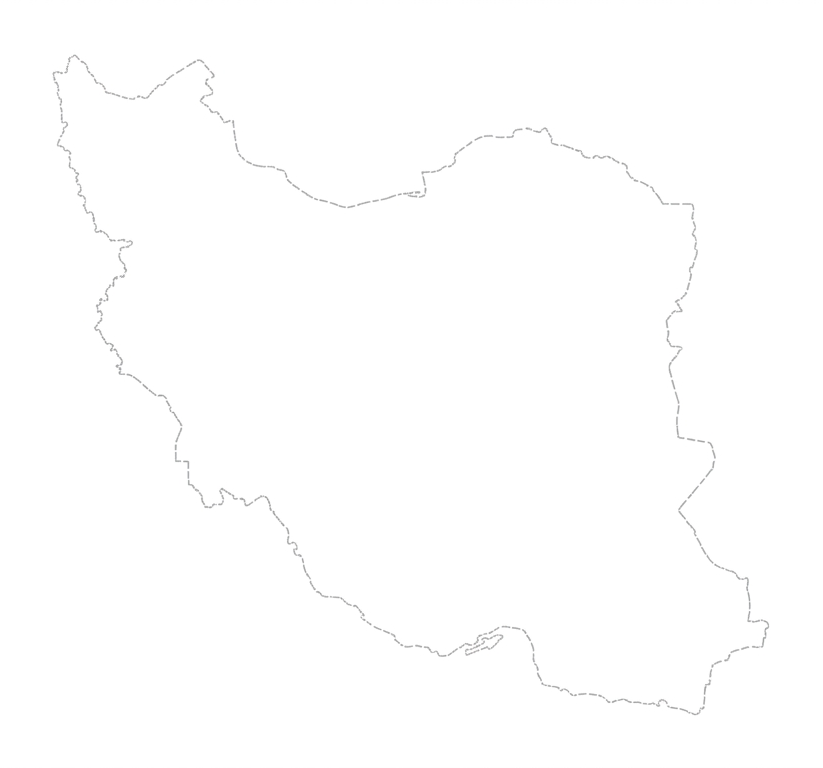
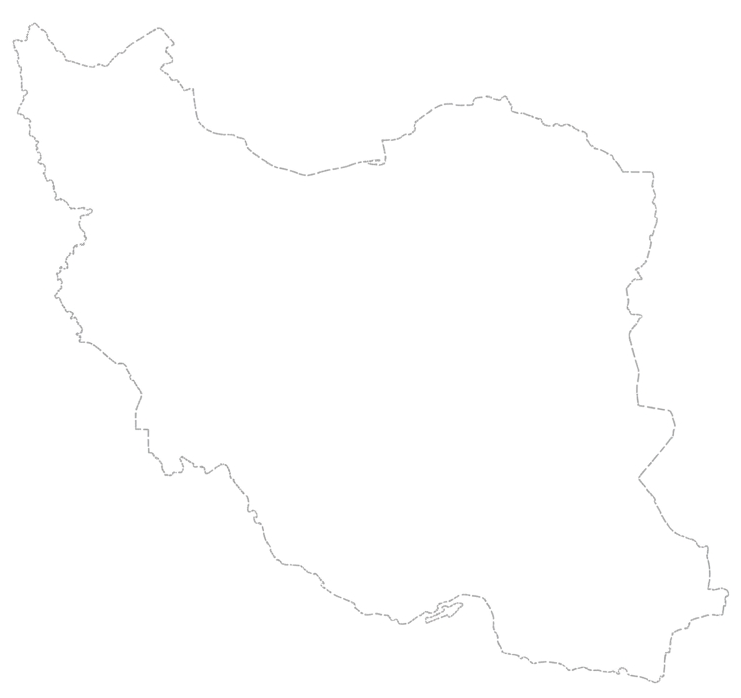
feat(Landing): responsive[deploy]

diff --git a/src/app/usersPanel/components/UserHeader.tsx b/src/app/usersPanel/components/UserHeader.tsx
@@ -1,0 +1,33 @@
+import { useNavigate } from "@tanstack/react-router";
+import { Search } from "lucide-react";
+
+const UserHeader = () => {
+  const navigate = useNavigate();
+
+  return (
+    <div className="w-full">
+      <header className=" mx-5 my-2 flex h-14 items-center px-4 border-b">
+        <div className="flex items-center gap-5 text-primary ">
+          <span
+            onClick={() => navigate({ to: "/" })}
+            className="cursor-pointer"
+          >
+            <div className="w-15 h-15 flex justify-center items-center">
+              <img src="./logo.webp" alt="logo" className="w-fit h-fit" />
+            </div>
+          </span>
+          <div className="w-full h-10 relative rounded-2xl border border-gray-200">
+            <input
+              type="text"
+              placeholder="جستجو شهر..."
+              className="w-full h-full px-4 pr-10 rounded-2xl outline-none"
+            />
+            <Search className="absolute left-3 top-1/2 -translate-y-1/2 text-gray-400" />
+          </div>
+        </div>
+      </header>
+    </div>
+  );
+};
+
+export default UserHeader;

diff --git a/src/routes/search.tsx b/src/routes/search.tsx
@@ -1,6 +1,6 @@
-import AccommodationCardsDetails from "@/app/usersPanel/components/AccommodationCardsDetails";
-import useAccommoation from "@/app/usersPanel/services/useAccommoation";
-import { createFileRoute, useSearch } from "@tanstack/react-router";
+import UserHeader from "@/app/usersPanel/components/UserHeader";
+import { createFileRoute, Outlet, useSearch } from "@tanstack/react-router";
+import { Toaster } from "sonner";
 import z from "zod";
 
 export const Route = createFileRoute("/search")({
@@ -22,18 +22,21 @@ export const Route = createFileRoute("/search")({
 function RouteComponent() {
   const search = useSearch({ from: "/search" });
   const provinceId = search.city__province__id as string | undefined;
-  console.log(provinceId)
-  
-  const { getAccommodations } = useAccommoation({
-    city__province__id: Number(provinceId),
-  });
-  console.log(getAccommodations.data)
-  // console.log(getAccommodations.data)
+  console.log(provinceId);
+
+  // const { getAccommodations } = useAccommoation({
+  //   city__province__id: Number(provinceId),
+  // });
   return (
-    <div className="flex justify-center">
-      <AccommodationCardsDetails
-        accommodations={getAccommodations?.data?.results}
-      />
+    <div className="font-display!">
+      <Toaster richColors position="top-right" />
+      <UserHeader/>
+      <Outlet />
     </div>
+    // <div className="flex justify-center">
+    //   <AccommodationCardsDetails
+    //     accommodations={getAccommodations?.data?.results}
+    //   />
+    // </div>
   );
 }

diff --git a/src/app/usersPanel/Landing/popularCities/components/IranPattern.tsx b/src/app/usersPanel/Landing/popularCities/components/IranPattern.tsx
@@ -5,22 +5,27 @@ import { ChevronLeft } from "lucide-react";
 
 const IranPattern = () => {
   return (
-    <div className="flex flex-row justify-center items-center mx-20">
-      <div className="flex flex-col gap-10">
-        <h1 className="font-bold text-6xl bg-linear-to-r from-primary to-gray-300 bg-clip-text text-transparent">
+    <div className="grid grid-cols-1 xl:grid-cols-3 2xl:grid-cols-2 justify-items-center items-center mx-4 md:mx-10 lg:mx-20 md:gap-0 ">
+      <div className="col-span-1 flex flex-col gap-6 md:gap-10">
+        <h1 className="font-bold text-3xl md:text-5xl lg:text-6xl bg-linear-to-r from-primary to-gray-300 bg-clip-text text-transparent">
           مقاصد پرطرفدار
         </h1>
-        <p className="text-2xl leading-10 text-gray-500 max-w-3xl">
+        <p className="text-base md:text-xl lg:text-2xl leading-7 md:leading-9 lg:leading-10 text-gray-500 max-w-3xl">
           منتخبی از بهترین اقامتگاهها در پربازدیدترین شهرهای سیاحتی و زیارتی
           ایران؛ سفرتان را از همینجا شروع کنید.
         </p>
-        <CustomButton className="bg-accent w-fit text-white py-6 px-6 text-lg rounded-2xl" icon={<ChevronLeft className="w-8! h-8!"/>} >شروع کنید</CustomButton>
+        <CustomButton 
+          className="bg-accent w-fit text-white py-4 md:py-6 px-4 md:px-6 text-base md:text-lg rounded-xl md:rounded-2xl" 
+          icon={<ChevronLeft className="w-6 h-6 md:w-8 md:h-8"/>}
+        >
+          شروع کنید
+        </CustomButton>
       </div>
 
       <div
-        className=" md:w-215 h-192.5 relative"
+        className="w-90 h-96 sm:h-130 sm:w-130 md:w-full md:h-165 2xl:w-200 2xl:h-192.5 xl:w-180 xl:h-180 lg:h-175 lg:w-180 relative col-span-2 2xl:col-span-1 bg-center bg-contain md:bg-auto"
         style={{
-          backgroundImage: "url('/iran.png')", // تغییر از './iran.png' به '/iran.png'
+          backgroundImage: "url('/iran.png')",
           backgroundRepeat: "no-repeat",
         }}
       >

diff --git a/src/app/usersPanel/Landing/popularCities/fixtures/index.tsx b/src/app/usersPanel/Landing/popularCities/fixtures/index.tsx
@@ -1,39 +1,44 @@
-
 export const popularCities = [
   {
     name: "تهران",
     img: "./tehran.jpg",
     accommodationNum: 20,
-    position: "top-40 left-80",
+    position:
+      "xl:top-40 xl:left-80 lg:top-30 lg:left-65 md:top-25 md:left-80 sm:top-25 sm:left-50 top-25 left-35",
   },
   {
     name: "اصفهان",
     img: "./isfahan.jpg",
     accommodationNum: 20,
-    position: "top-80 left-70",
+    position:
+      "xl:top-80 xl:left-70 lg:top-65 lg:left-55 md:top-60 md:left-60 sm:top-50 sm:left-40 top-40 left-30",
   },
   {
     name: "کیش",
     img: "./kish.jpg",
     accommodationNum: 20,
-    position: "top-150 left-105",
+    position:
+      "xl:top-150 xl:left-105 lg:top-140 lg:left-85 md:top-140 md:left-85 sm:top-110 sm:left-65 top-75 left-40",
   },
   {
     name: "تبریز",
     img: "./tabriz.jpg",
     accommodationNum: 20,
-    position: "top-15 left-35",
+    position:
+      "xl:top-15 xl:left-35 lg:top-10 lg:left-20 md:top-10 md:left-30 sm:top-10 sm:left-10 top-10 left-10",
   },
   {
     name: "شیراز",
     img: "./shiraz.jpg",
     accommodationNum: 20,
-    position: "top-100 left-90",
+    position:
+      "xl:top-100 xl:left-90 lg:top-100 lg:left-65 md:top-90 md:left-70 sm:top-75 sm:left-50 top-55 left-30",
   },
   {
     name: "مشهد",
     img: "./mashhad.jpg",
     accommodationNum: 20,
-    position: "top-50 left-150",
+    position:
+      "xl:top-50 xl:left-150 lg:top-45 lg:left-130 md:top-45 md:left-140 sm:top-40 sm:left-95 top-25 left-65",
   },
 ];

diff --git a/src/app/usersPanel/Landing/services/components/Services.tsx b/src/app/usersPanel/Landing/services/components/Services.tsx
@@ -2,11 +2,16 @@ import { data } from "../../fixtures";
 
 const Services = () => {
   return (
-    <div className="flex flex-row mx-10 gap-5 my-10 w-fit">
-      {data.services.data.map((service) => (
-        <div className="w-30 h-30 flex flex-col gap-2 justify-center items-center rounded-2xl bg-creamy-400/50 text-gray-700 ">
-          {service.icon}
-          {service.name}
+    <div className=" justify-center flex flex-row mx-4 md:mx-10 hide-scrollbar gap-3 md:gap-5 my-5 md:my-10 w-full overflow-x-auto">
+      {data.services.data.map((service, index) => (
+        <div 
+          key={index}
+          className="min-w-20 md:min-w-30 h-20 md:h-30 flex flex-col gap-1 md:gap-2 justify-center items-center rounded-xl md:rounded-2xl bg-creamy-400/50 text-gray-700 text-xs md:text-sm text-center p-2"
+        >
+          <div className="w-6 h-6 md:w-8 md:h-8">
+            {service.icon}
+          </div>
+          <span className="line-clamp-2">{service.name}</span>
         </div>
       ))}
     </div>

diff --git a/src/app/usersPanel/Landing/popularCities/components/PopularCities.tsx b/src/app/usersPanel/Landing/popularCities/components/PopularCities.tsx
@@ -12,16 +12,20 @@ interface Props {
 
 const PopularCities = ({ city }: Props) => {
   return (
-    <div className="flex flex-col gap-3">
+    <div className="flex flex-col gap-2 md:gap-3 scale-50 sm:scale-75 md:scale-90 lg:scale-100 origin-top-left">
       {/* image side */}
       <img
         src={city?.img}
         alt={city?.name}
-        className="w-20 h-20 rounded-full relative bg-cover border-4 border-gray-300"
+        className="w-16 h-16 md:w-20 md:h-20 rounded-full relative bg-cover border-2 md:border-4 border-gray-300"
       />
-      <span className="absolute text-white top-12 left-6">{city?.name}</span>
+      <span className="absolute text-white text-xs md:text-sm top-10 md:top-12 left-4 md:left-6">
+        {city?.name}
+      </span>
       {/* detail side */}
-      <Badge className="bg-gray-300 text-primary">+{city?.accommodationNum} اقامتگاه</Badge>
+      <Badge className="bg-gray-300 text-primary text-xs md:text-sm px-2 py-1">
+        +{city?.accommodationNum} اقامتگاه
+      </Badge>
     </div>
   );
 };

diff --git a/src/routes/index.tsx b/src/routes/index.tsx
@@ -1,5 +1,4 @@
 import HeroSection from "@/app/usersPanel/components/HeroSection";
-import Tours from "@/app/usersPanel/Landing/foreignTours/Tours";
 import IranPattern from "@/app/usersPanel/Landing/popularCities/components/IranPattern";
 import Services from "@/app/usersPanel/Landing/services/components/Services";
 import { createFileRoute } from "@tanstack/react-router";
@@ -33,7 +32,7 @@ function HomeComponent() {
       {/* <HomePageFeatures />
       <PropvinceBasedAccommodation /> */}
       <IranPattern/>
-      <Tours/>
+      {/* <Tours/> */}
     </div>
   );
 }

diff --git a/index.html b/index.html
@@ -2,7 +2,7 @@
 <html lang="fa">
   <head>
     <meta charset="UTF-8" />
-    <link rel="icon" type="image/svg+xml" href="/vite.svg" />
+    <link rel="icon" type="image/svg+xml" href="/agencyLogo.png" />
     <meta name="viewport" content="width=device-width, initial-scale=1.0" />
     <title>mesal-agency-front</title>
   </head>

diff --git a/src/index.css b/src/index.css
@@ -126,7 +126,7 @@
     --secondary-10: #7999dc;
 
     --accent:#fab95b;
-    --accent-foreground: oklch(0.205 0 0);
+    --accent-foreground: oklch(19.125% 0.00002 271.152);
     
     --accent-40: #fab95b;
     --accent-30: #fbc474;